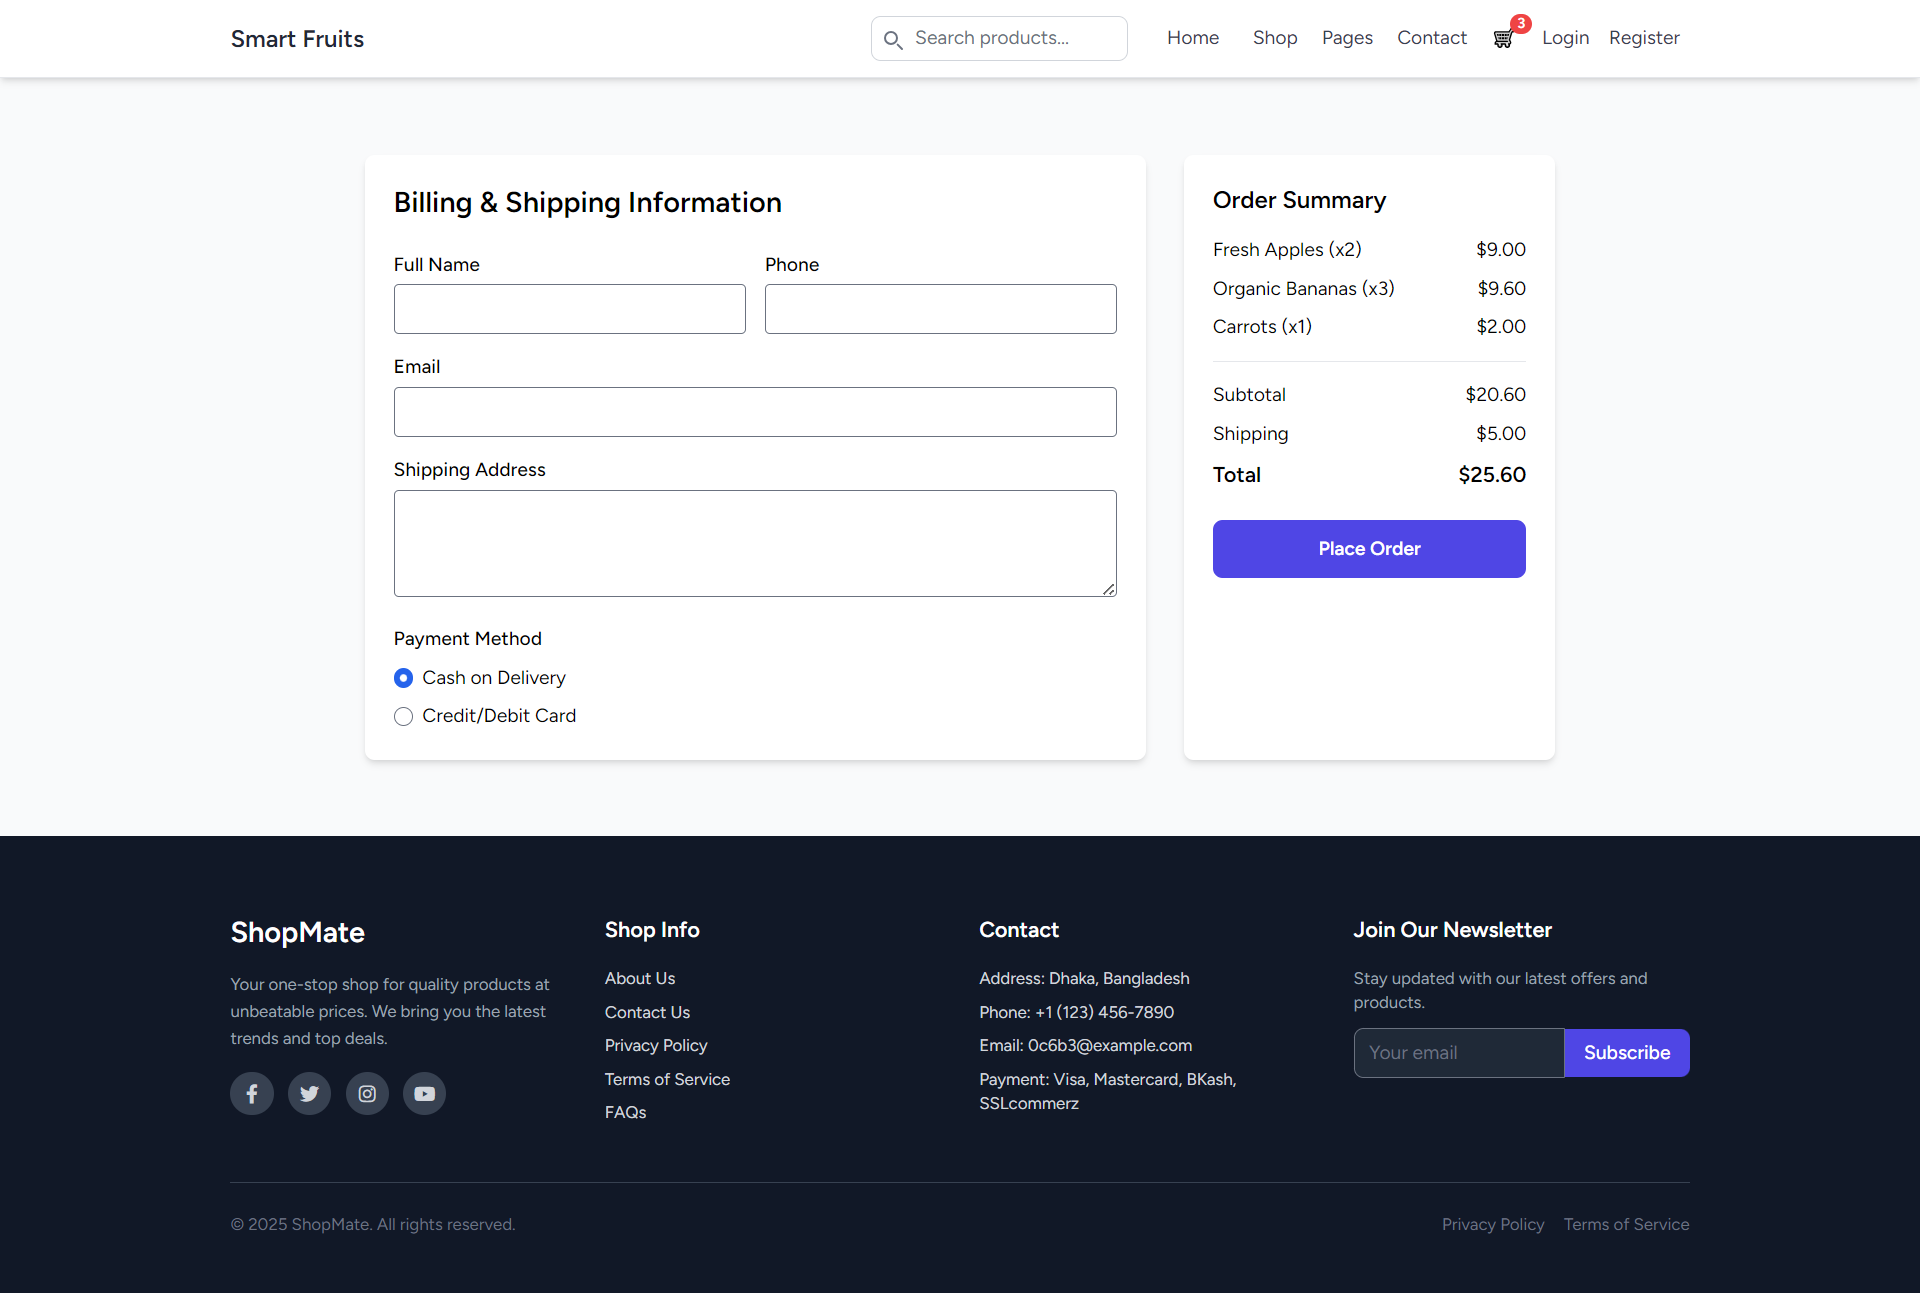
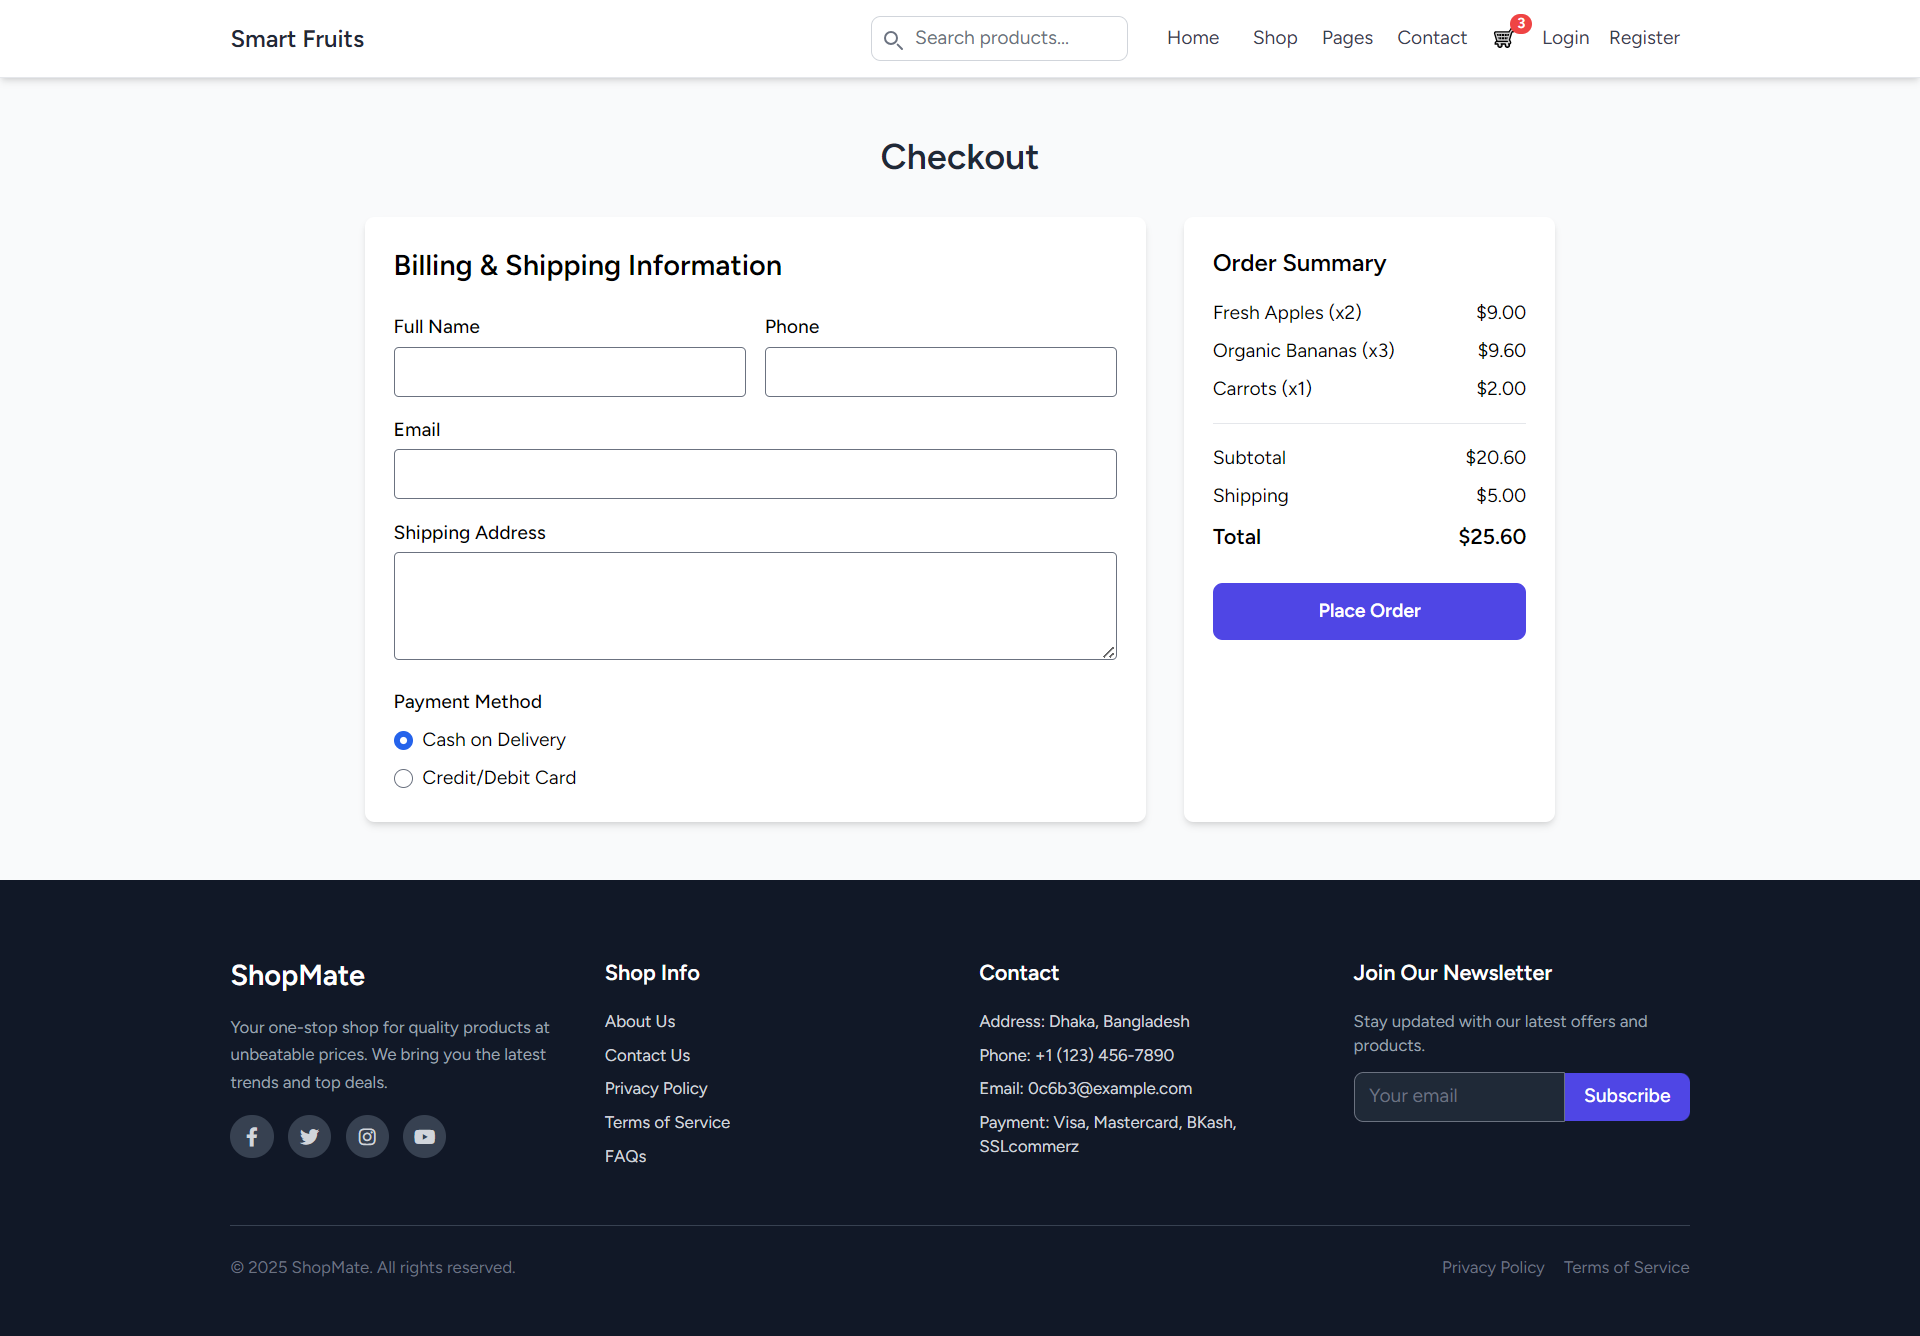
frontend design almost finished

diff --git a/resources/js/Pages/Frontend/Shop.vue b/resources/js/Pages/Frontend/Shop.vue
@@ -2,7 +2,41 @@
 import Footer from '@/Components/Frontend/Footer.vue';
 import Navbar from '@/Components/Frontend/Navbar.vue';
 import { Head } from '@inertiajs/vue3';
+import { ref, computed } from 'vue';
+
+// Dummy categories
+const categories = ["All", "Fruits", "Vegetables", "Organic"];
+
+// Dummy products (replace with API data later)
+const products = ref([
+    { id: 1, name: "Apple", description: "Fresh and juicy", category: "Fruits", price: 120 },
+    { id: 2, name: "Banana", description: "Tasty and sweet", category: "Fruits", price: 80 },
+    { id: 3, name: "Carrot", description: "Healthy and nutritious", category: "Vegetables", price: 50 },
+    { id: 4, name: "Broccoli", description: "Green and fresh", category: "Vegetables", price: 70 },
+    { id: 5, name: "Organic Mango", description: "Organic and fresh", category: "Organic", price: 200 },
+    { id: 6, name: "Organic Tomato", description: "Organic and fresh", category: "Organic", price: 90 },
+]);
+
+// // Selected category
+const selectedCategory = ref("All");
+
+// Computed filtered products
+const filteredProducts = computed(() => {
+    if (selectedCategory.value === "All") {
+        return products.value;
+    }
+    return products.value.filter(
+        (p) => p.category === selectedCategory.value
+    );
+});
+
+// Function to change category
+function filterByCategory(category) {
+    selectedCategory.value = category;
+}
+
 </script>
+
 
 
 <template>
@@ -10,7 +44,7 @@ import { Head } from '@inertiajs/vue3';
     <Head title="Shop" />
     <Navbar />
 
-    <section class="py-12 bg-gray-50">
+    <section class="py-10 bg-gray-50">
         <h2 class="text-3xl font-bold text-gray-800 mb-8 text-center">Shop</h2>
 
         <div class="max-w-7xl mx-auto px-4 sm:px-6 lg:px-8 grid grid-cols-1 lg:grid-cols-4 gap-8">
@@ -20,12 +54,9 @@ import { Head } from '@inertiajs/vue3';
                 <!-- Categories -->
                 <div class="bg-white shadow rounded-lg p-5 mb-8">
                     <h3 class="text-lg font-semibold mb-4">Categories</h3>
-                    <ul class="space-y-3 text-gray-700">
-                        <li><a href="#" class="hover:text-green-600">All</a></li>
-                        <li><a href="#" class="hover:text-green-600">Fruits</a></li>
-                        <li><a href="#" class="hover:text-green-600">Vegetables</a></li>
-                        <li><a href="#" class="hover:text-green-600">Organic</a></li>
-                        <li><a href="#" class="hover:text-green-600">Fresh Picks</a></li>
+                    <ul class="space-y-1 text-gray-700">
+                        <li v-for="category in categories" :key="category" @click="filterByCategory(category)"
+                            class="cursor-pointer px-2 py-1" :class="[selectedCategory == category ? 'bg-gray-200 rounded-md px-2 py-1' : '']">{{ category }}</li>
                     </ul>
                 </div>
 
@@ -77,13 +108,13 @@ import { Head } from '@inertiajs/vue3';
             <main class="lg:col-span-3">
                 <div class="grid grid-cols-1 sm:grid-cols-2 lg:grid-cols-3 gap-6">
                     <!-- Product Card -->
-                    <div v-for="i in 9" :key="i"
+                    <div v-for="product in filteredProducts" :key="product.id"
                         class="bg-white shadow rounded-lg overflow-hidden hover:shadow-lg transition">
                         <img src="/storage/images/featur-1.jpg" alt="Product" class="w-full h-48 object-cover" />
                         <div class="p-4">
-                            <h3 class="text-lg font-semibold">Fresh Fruit {{ i }}</h3>
-                            <p class="text-gray-600 text-sm mb-2">Delicious and organic</p>
-                            <p class="text-green-600 font-bold mb-4">$3.99</p>
+                            <h3 class="text-lg font-semibold">{{ product.name }}</h3>
+                            <p class="text-gray-600 text-sm mb-2">{{ product.description }}</p>
+                            <p class="text-green-600 font-bold mb-4">৳{{ product.price }}</p>
                             <button class="bg-green-600 text-white px-4 py-2 rounded hover:bg-green-700 w-full">Add to
                                 Cart</button>
                         </div>

diff --git a/resources/js/Components/Frontend/Fruits.vue b/resources/js/Components/Frontend/Fruits.vue
@@ -1,6 +1,10 @@
 <script setup lang="ts">
 import { Link } from '@inertiajs/vue3';
 
+function addToCart() {
+    alert('Added to cart');    
+}
+
 </script>
 
 <template>
@@ -22,7 +26,7 @@ import { Link } from '@inertiajs/vue3';
                         </p>
                         <div class="mt-4 flex items-center justify-between">
                             <span class="text-xl font-bold text-indigo-600">BDT 350</span>
-                            <button
+                            <button @click="addToCart()"
                                 class="bg-indigo-600 text-white px-4 py-2 rounded-lg hover:bg-indigo-700 transition text-sm font-semibold">
                                 Add to Cart
                             </button>

diff --git a/resources/js/Pages/Frontend/Checkout.vue b/resources/js/Pages/Frontend/Checkout.vue
@@ -33,13 +33,15 @@ function placeOrder() {
 </script>
 
 <template>
+
   <Head title="Checkout" />
 
   <Navbar />
 
-  <section class="py-16 bg-gray-50">
-    <div class="max-w-5xl mx-auto px-4 grid grid-cols-1 lg:grid-cols-3 gap-8">
+  <section class="py-12 bg-gray-50">
+    <h2 class="text-3xl font-bold text-gray-800 mb-8 text-center">Checkout</h2>
 
+    <div class="max-w-5xl mx-auto px-4 grid grid-cols-1 lg:grid-cols-3 gap-8">
       <!-- Billing & Shipping Info -->
       <div class="lg:col-span-2 bg-white p-6 rounded-lg shadow-md space-y-6">
         <h2 class="text-2xl font-semibold mb-4">Billing & Shipping Information</h2>

diff --git a/README.md b/README.md
@@ -1,26 +1,17 @@
 
 ## Screenshots
 
-### Home Page
-![Ecommerce App](public/screenshots/ecommerce_hero.jpg)
-
-### Support
-![Ecommerce App](public/screenshots/support.jpg)
-
-### Fruits
-![Ecommerce App](public/screenshots/fruits.jpg)
-
-### Vegetables
-![Ecommerce App](public/screenshots/vegetables.jpg)
+### Full Page
+![Ecommerce App](public/screenshots/fullpage.jpg)
 
 ### Shop
 ![Ecommerce App](public/screenshots/shop.jpg)
 
-### Footer
-![Ecommerce App](public/screenshots/footer.jpg)
+### Cart
+![Ecommerce App](public/screenshots/cart.jpg)
 
 ### Checkout
 ![Ecommerce App](public/screenshots/checkout.jpg)
 
-### Full Page
-![Ecommerce App](public/screenshots/fullpage.jpg)
+### Contact
+![Ecommerce App](public/screenshots/contact.jpg)
